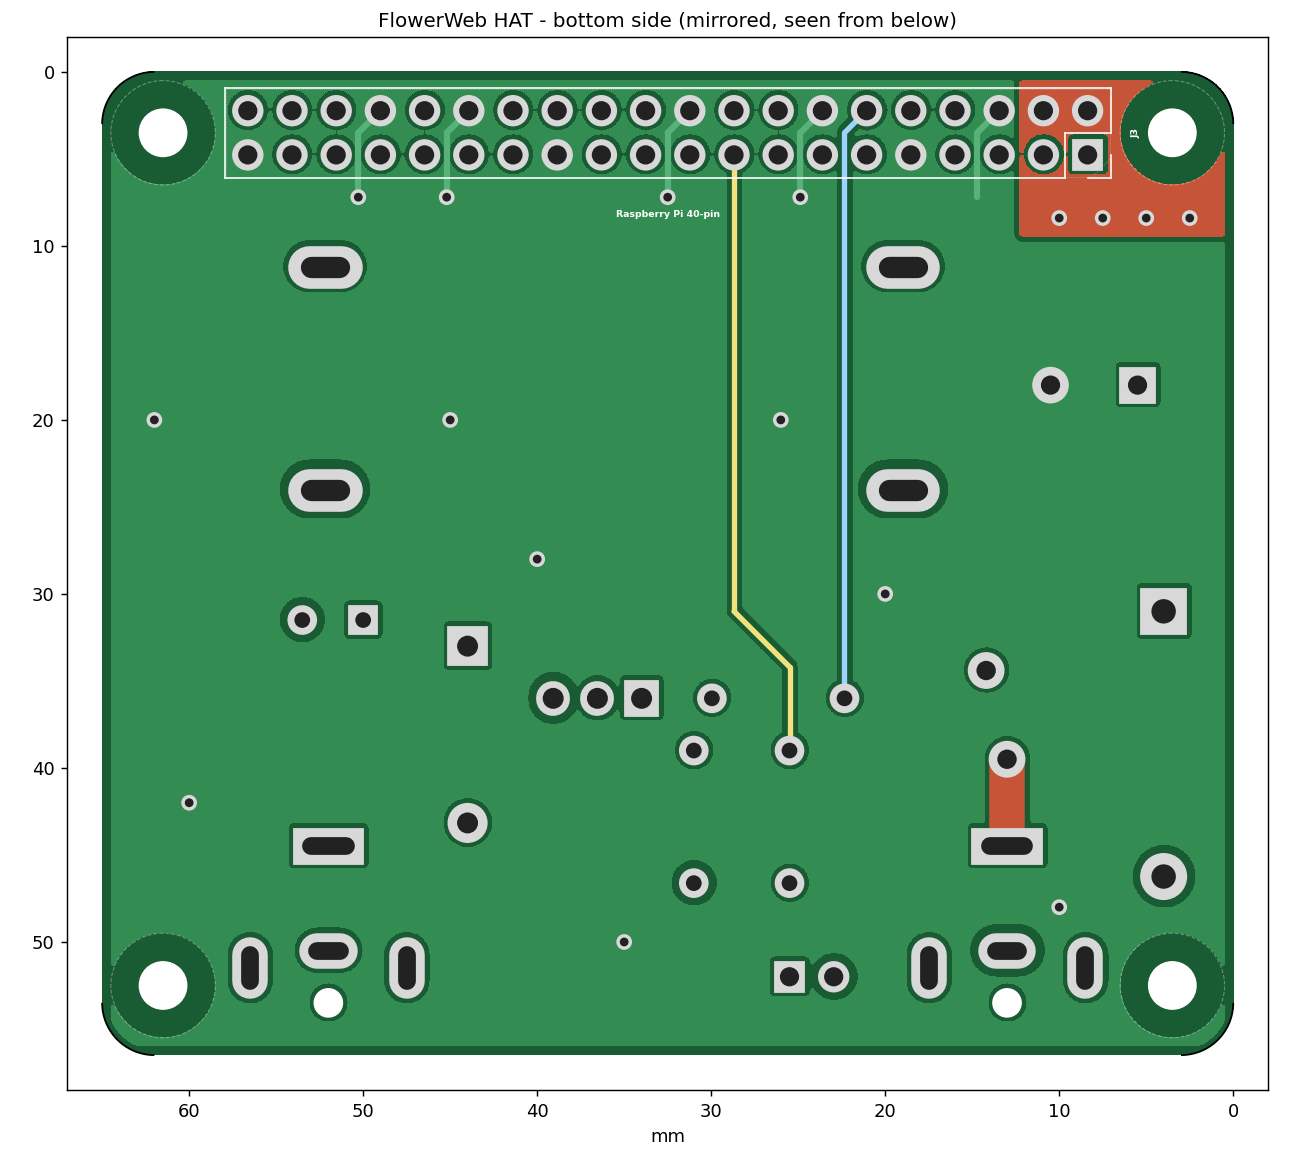
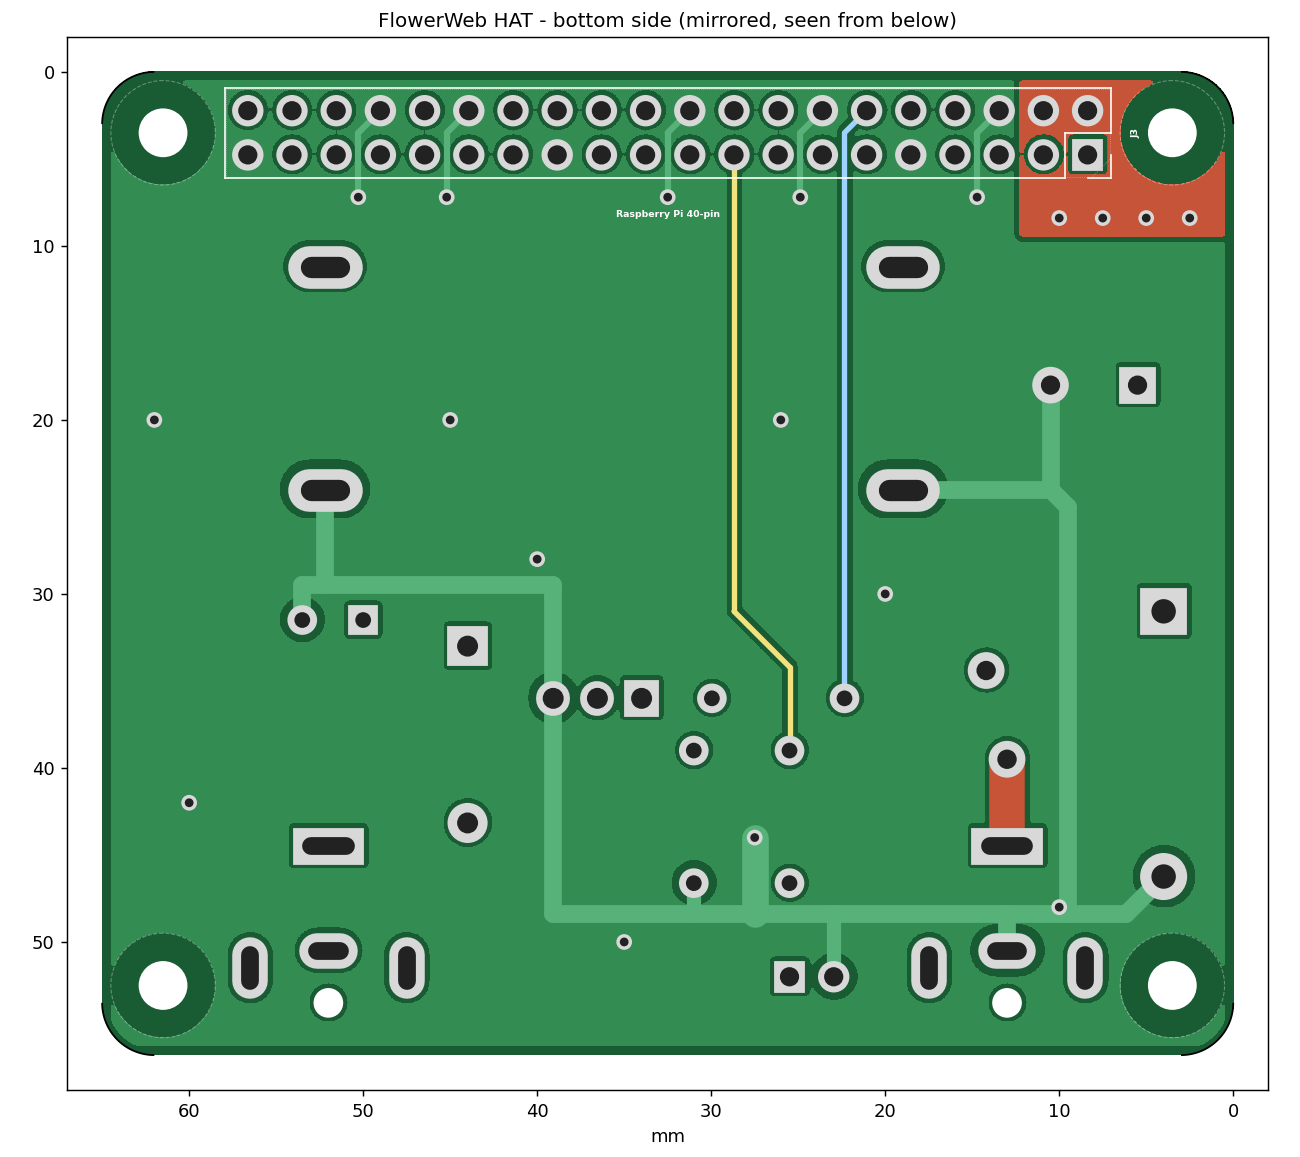
bug fixes

Changed region(s): [[0.4, 0.3423, 0.8923, 0.8401], [0.2154, 0.4356, 0.4308, 0.5912], [0.7385, 0.1556, 0.7692, 0.1867]]

diff --git a/hardware/kicad/README.md b/hardware/kicad/README.md
@@ -29,7 +29,7 @@ Written in KiCad 7 format, so it opens in KiCad 7, 8 and 9. All other footprints
 ## Before ordering
 
 1. Open `flowerweb_hat.kicad_pro` in KiCad.
-2. In the PCB editor press **B** (Fill all zones). The copper pours are saved unfilled.
+2. In the PCB editor press **B** (Fill all zones). The copper pours are saved unfilled. Every connection, GND and 5V included, is also made by traces, so there are no ratsnest lines even before filling. The pours add copper area for the 5 A current, so always fill them before ordering.
 3. Run **Inspect → Design Rules Checker** and, in the schematic, **Inspect → Electrical Rules Checker**. The board was checked with independent clearance, pour and connectivity checks while it was being made, but it has not yet been opened in KiCad itself. Run both checks once before ordering.
 4. Optional: **Tools → Update Footprints from Library** adds the 3D models for the 3D viewer. Afterwards, check that J3's pin 1 is still next to mounting hole H1.
 5. Plot Gerbers and drill files (**File → Fabrication Outputs**). The board uses standard rules (0.2 mm clearance, 0.3 mm tracks, 0.4 mm vias) that every PCB fab supports. The MT3608 pads have **slotted holes**, which most fabs (JLCPCB, PCBWay, Aisler) make at no extra cost.
@@ -46,3 +46,4 @@ Written in KiCad 7 format, so it opens in KiCad 7, 8 and 9. All other footprints
 ## License
 
 PolyForm Noncommercial 1.0.0. See `LICENSE.md` in the project root.
+Copyright DL1BWA 2026

diff --git a/README.md b/README.md
@@ -28,7 +28,7 @@ A ready-made **Raspberry Pi HAT** for all of this is in [`hardware/kicad`](hardw
 
 > ⚠ The relay switches the valve's supply, not mains power. If your valve or pump runs on mains voltage, use a suitably rated relay and have the wiring checked by someone qualified.
 
-The KiCAD board is not routed. It is meant as a suggestion.  
+The KiCAD hat board meant as a suggestion. No frills here, only GPIO18 is connected.   
 
 ## Project layout
 
